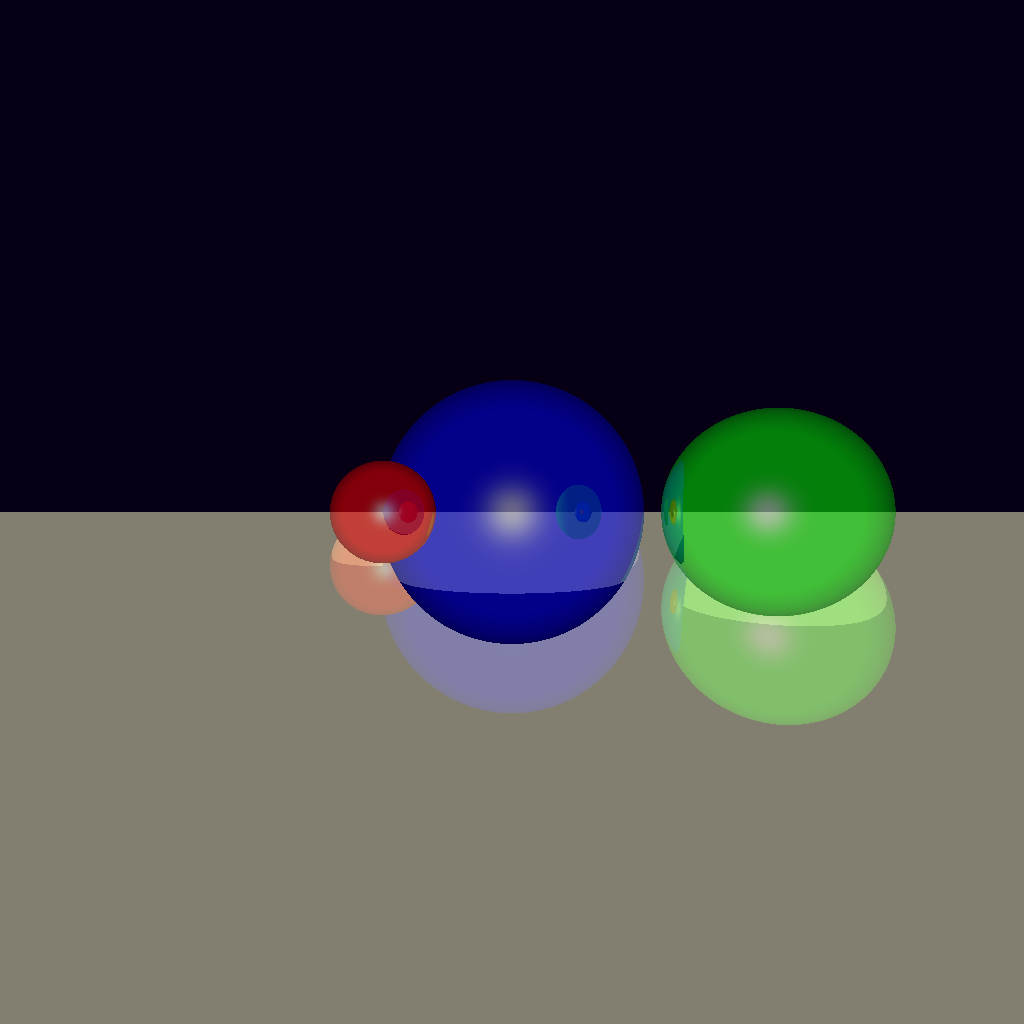
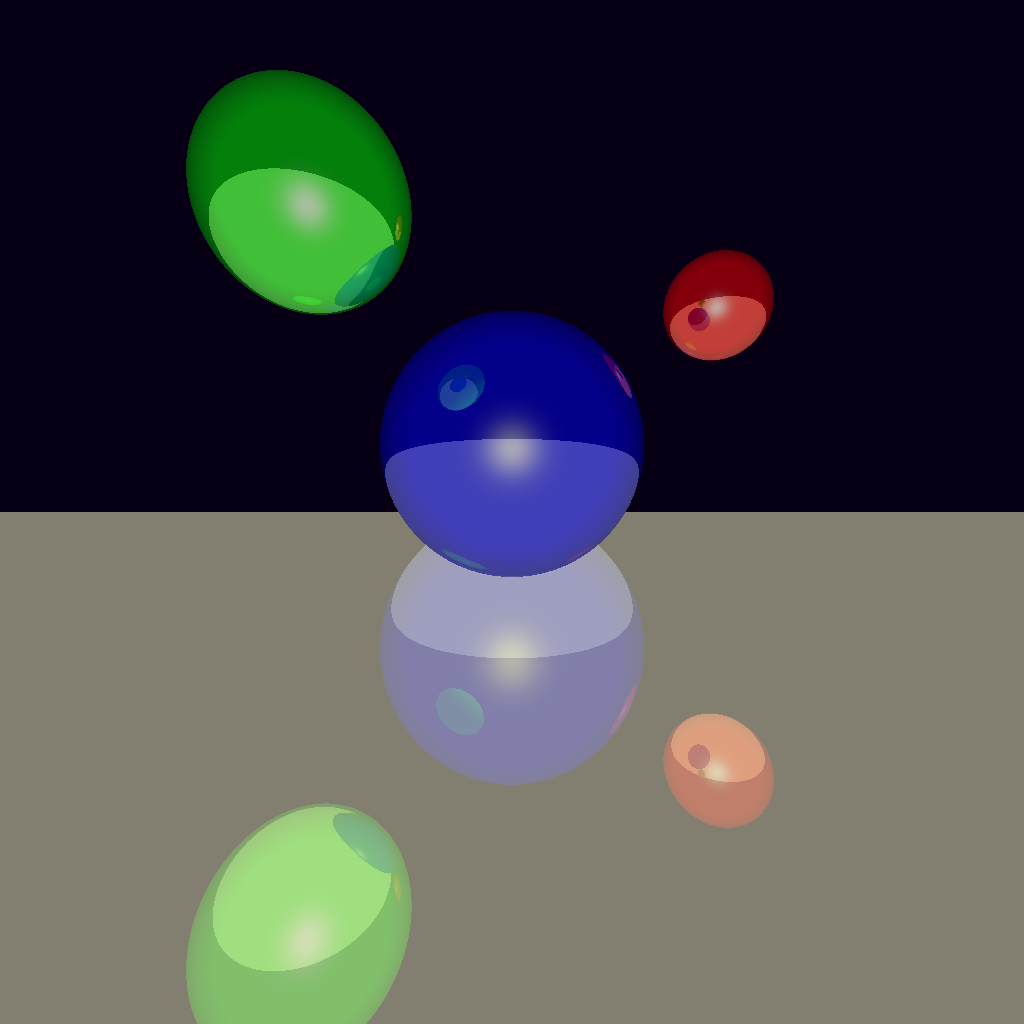
Best image ever

diff --git a/main.cpp b/main.cpp
@@ -33,19 +33,20 @@ const std::vector<std::pair<Color, std::string>> presetColors = {
 };
 
 int main() {
-    int imageWidth = Input::getInt("Enter image width (or press Enter for 1024): ", 1024);
-    int imageHeight = Input::getInt("Enter image height (or press Enter for 1024): ", 1024);
 
     if (Input::promptTemplateChoice()) {
         renderTemplateScene();
         return 0;
     }
 
+    int imageWidth = Input::getInt("Enter image width (or press Enter for 1024): ", 1024);
+    int imageHeight = Input::getInt("Enter image height (or press Enter for 1024): ", 1024);
+
     // Choose color for the plane
     Color planeColor = chooseColor("plane");
 
     Vector3 cameraPosition(0, 0, 0);
-    Vector3 cameraDirection(0, 0, -1);
+    Vector3 cameraDirection(0, 0, 1);
     Plane plane(Vector3(0, 1, 0), Vector3(0, 1, 0), planeColor, 0);
 
     Light light(Vector3(0, 40, 30), Color(1, 1, 1), 1);
@@ -104,9 +105,9 @@ void renderTemplateScene() {
     Color green(0, 1, 0);
     Color yellow(1, 1, 0);
 
-    Sphere sphereLeft(Vector3(2.5, 0, -5), 1, green, 0.5);
-    Sphere sphereMiddle(Vector3(0, 0, -8),2, blue, 0.5);
-    Sphere sphereRight(Vector3(-2.5, 0, -10), 1, red , 0.5);
+    Sphere sphereLeft(Vector3(-2, -3, -5), 1, green, 0.5);
+    Sphere sphereMiddle(Vector3(0, -1, -8),2, blue, 0.5);
+    Sphere sphereRight(Vector3(4, -4, -10), 1, red , 0.5);
     Plane plane(Vector3(0, 1, 0), Vector3(0, 1, 0), yellow, 0.5);
 
     Light light(Vector3(0, 0, 0), Color(1, 1, 1), 0.80);
